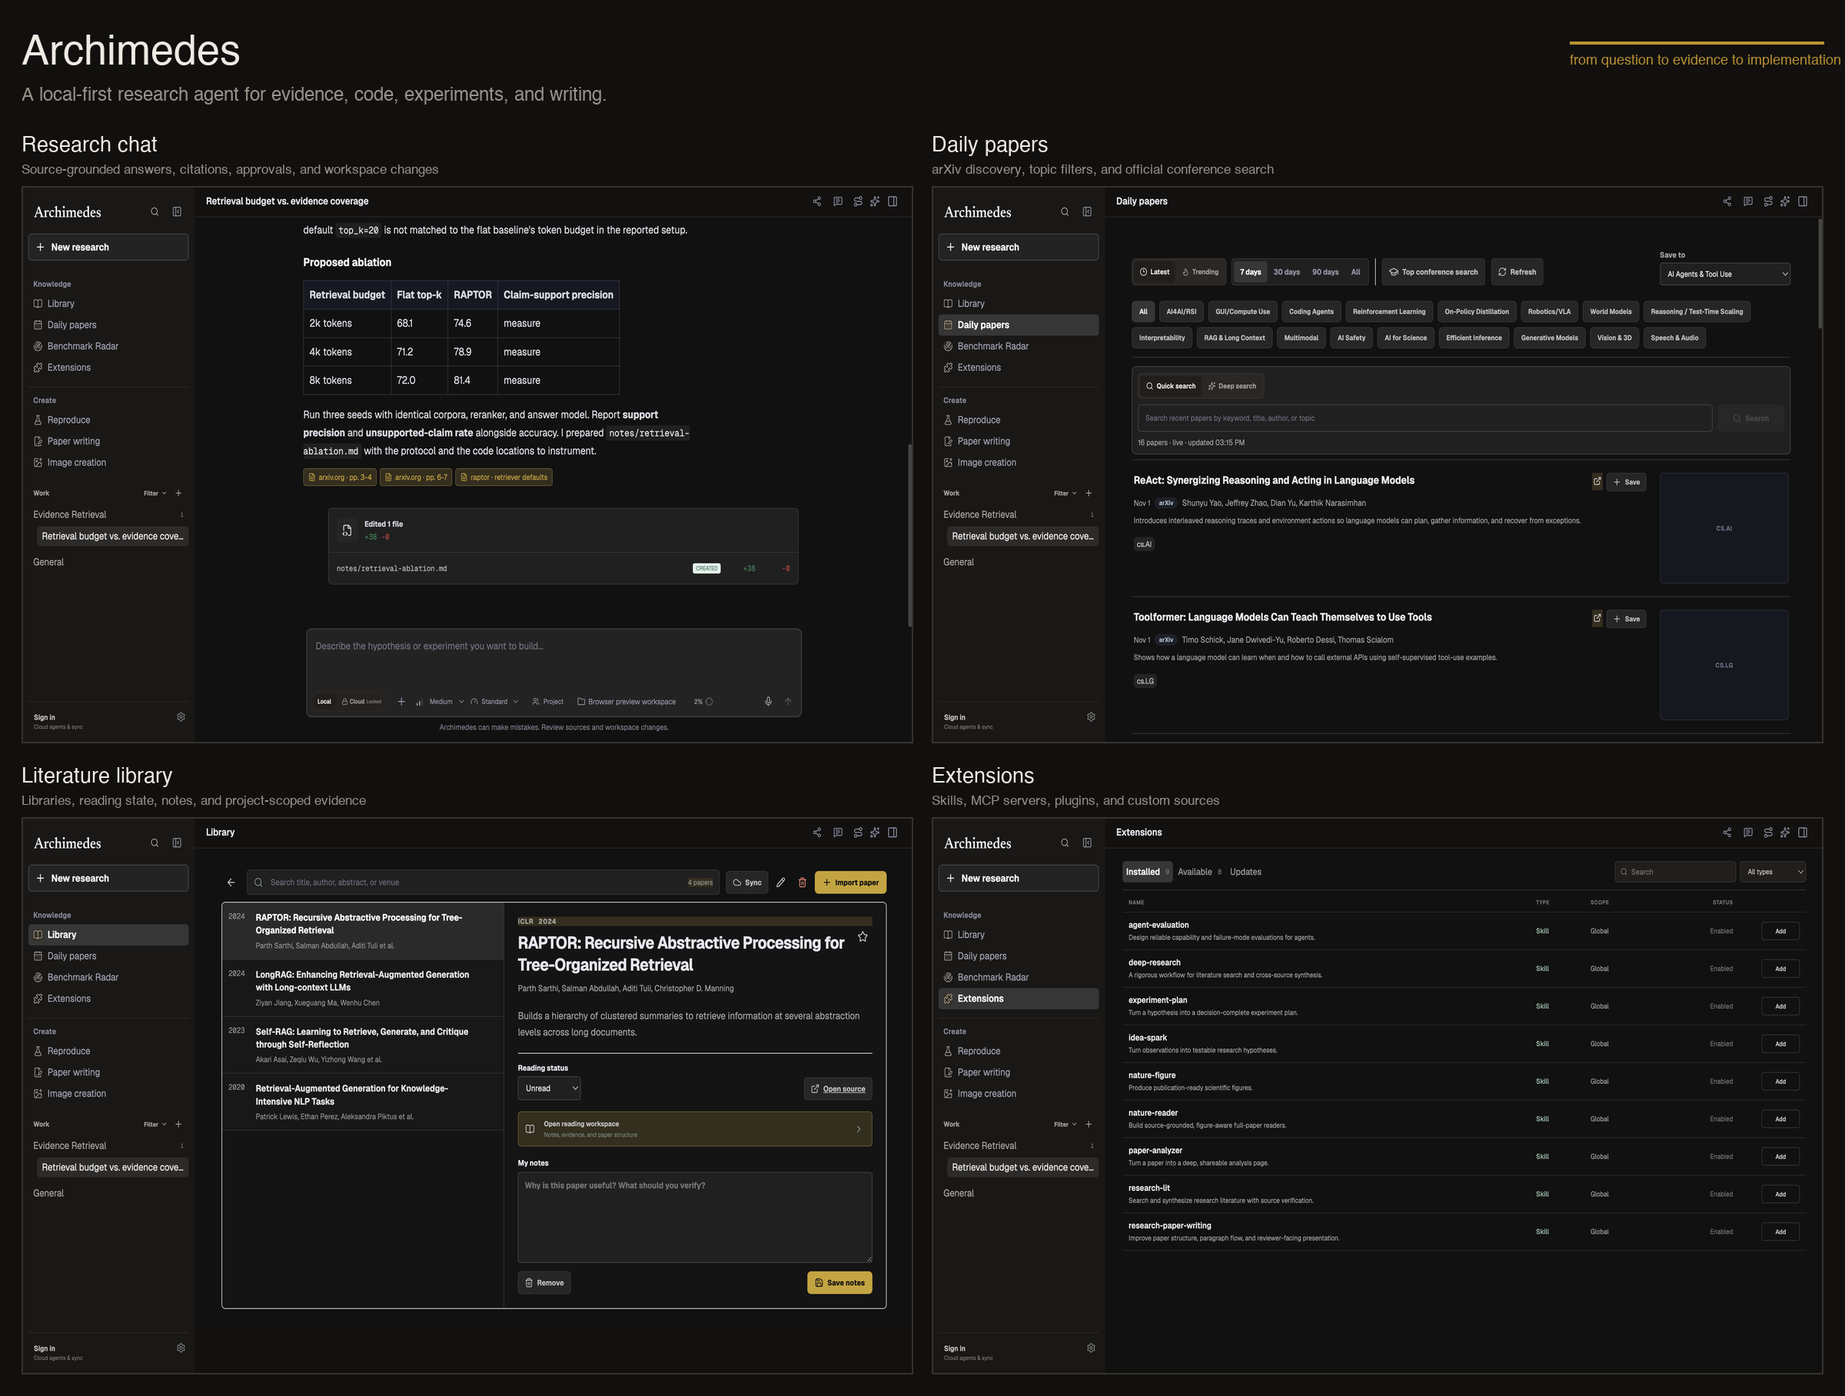
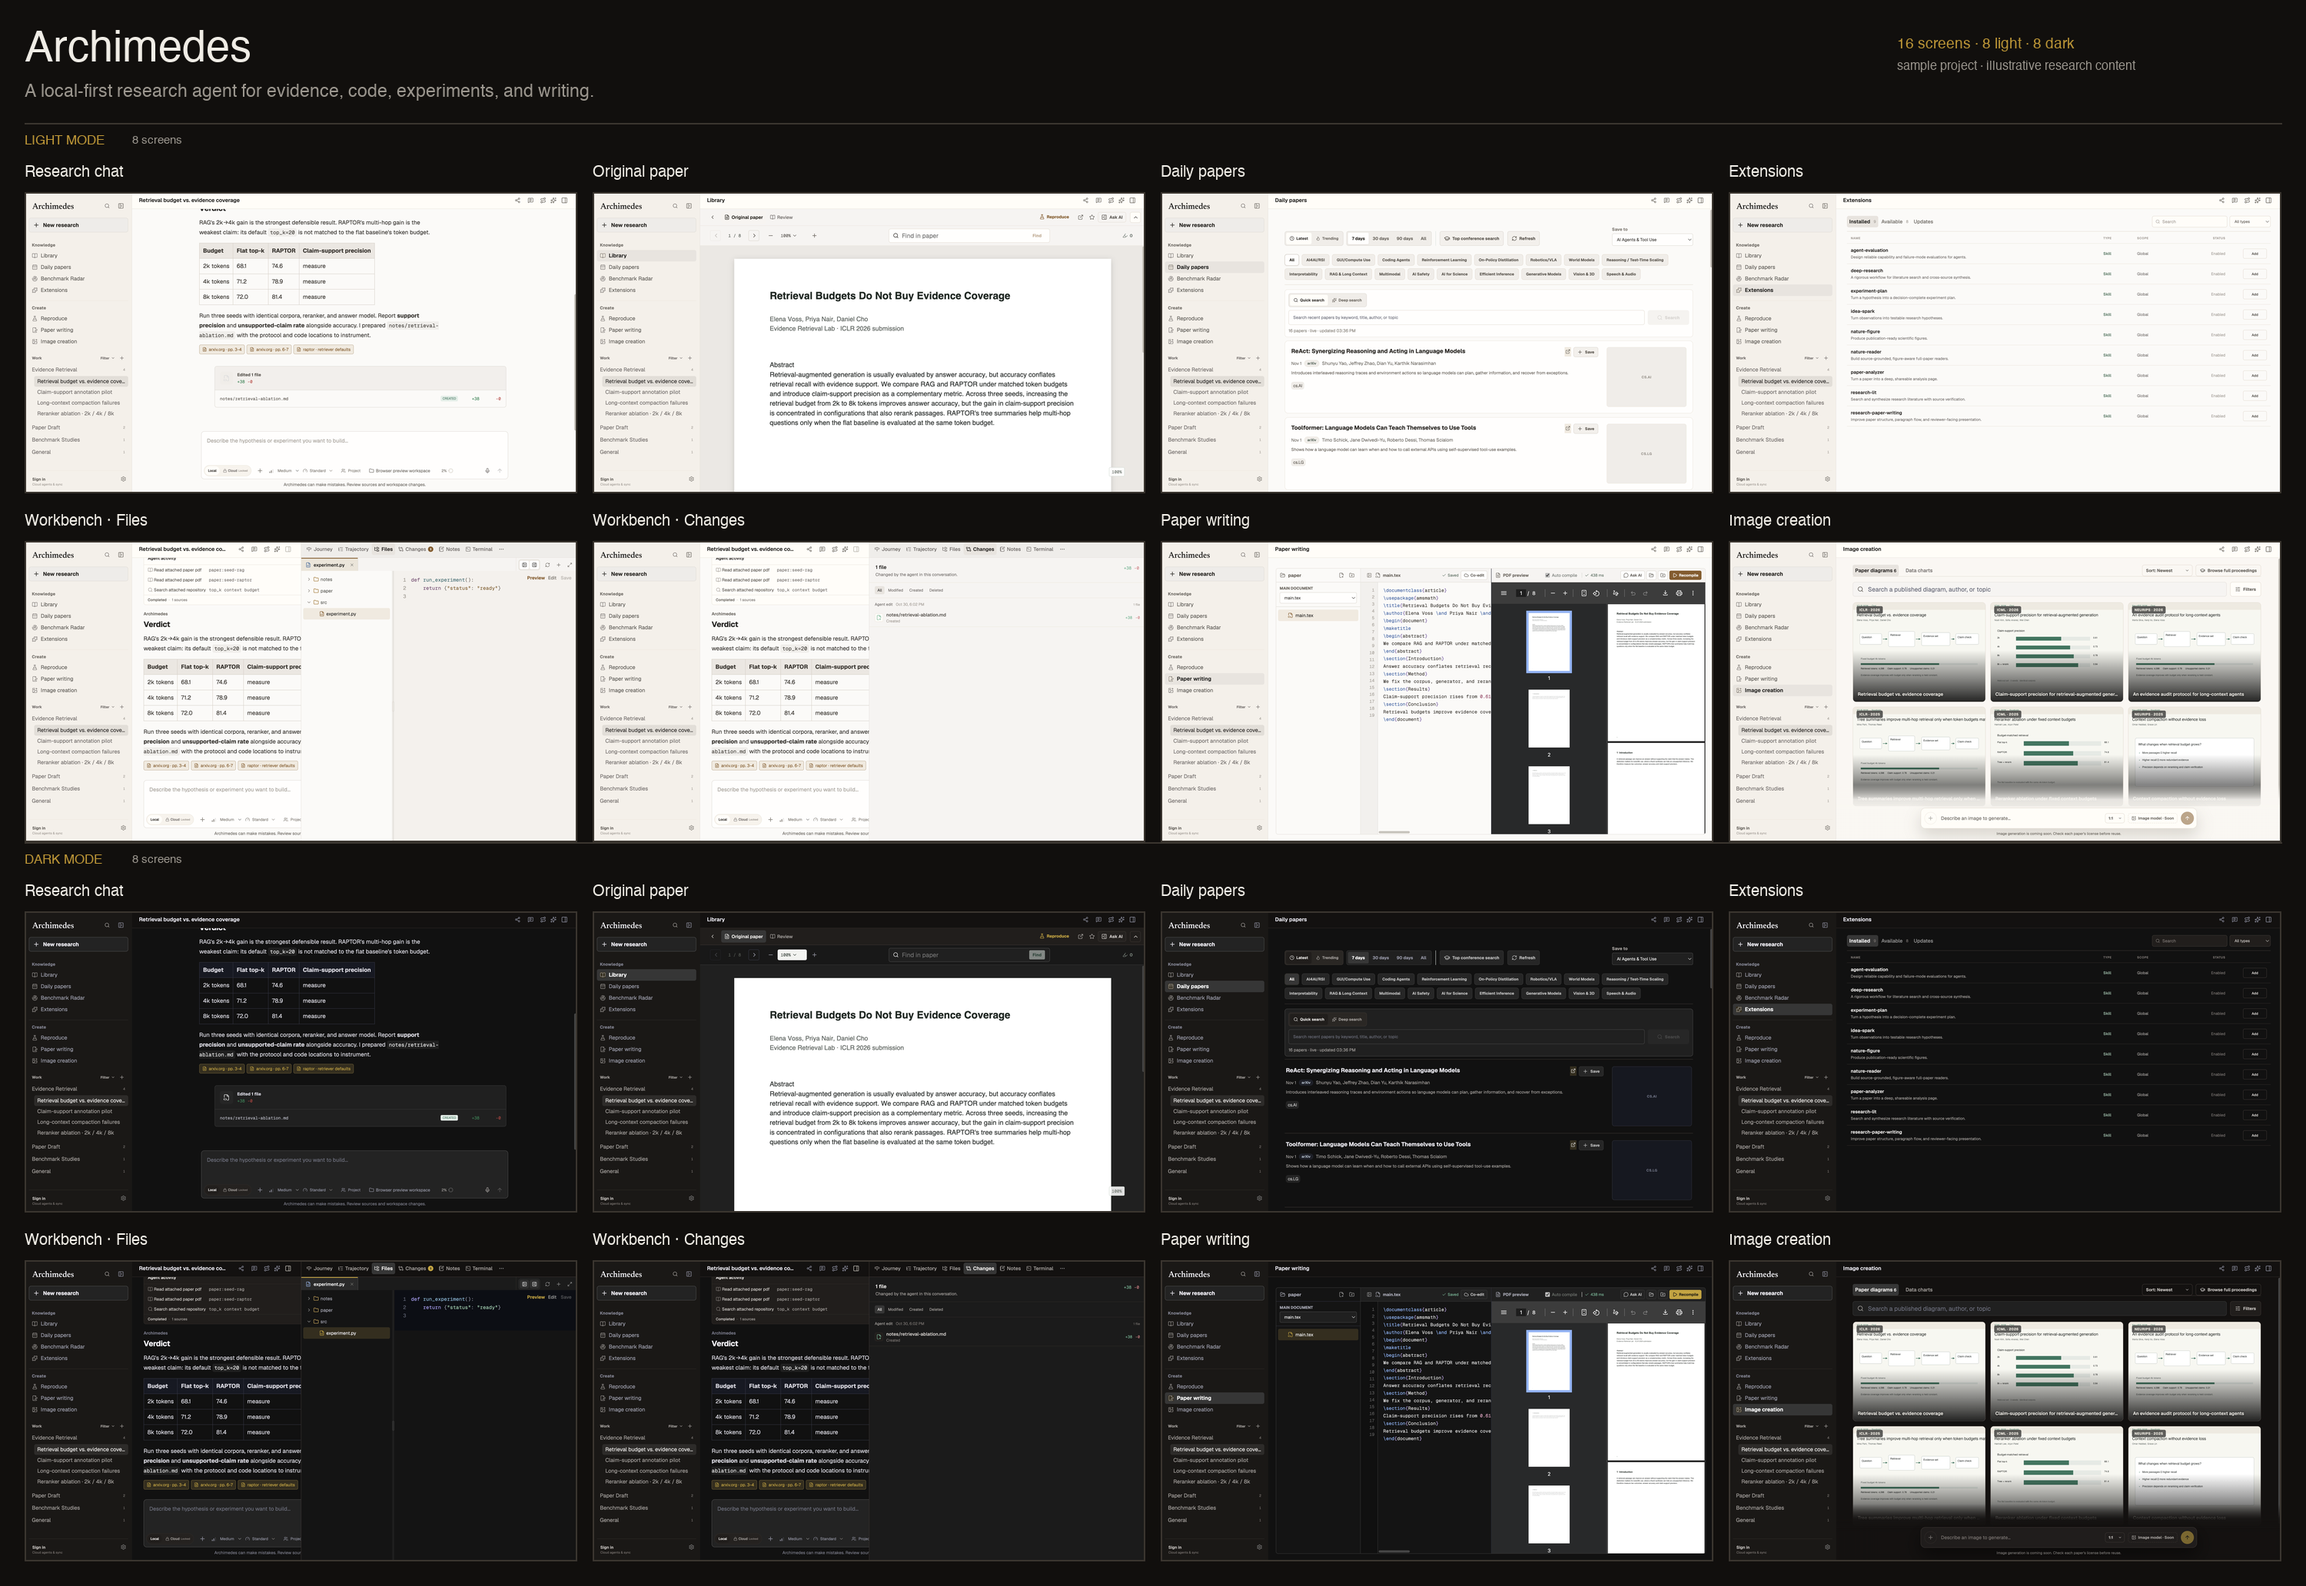
docs(readme): expand demo to light and dark screens
Replace the four-panel hero with sixteen screenshots: eight light-mode and eight dark-mode views covering research chat, original paper reader, Daily papers, Extensions, Workbench Files and Changes, paper writing, and image creation. Seed richer demo projects and threads for the screenshots.

diff --git a/README.md b/README.md
@@ -5,10 +5,10 @@
 > 面向研究全流程的科研智能体工作台：把找论文、读论文、看项目代码、组织证据、开展实验和写作放回同一个可追溯的桌面应用中。
 
 <p align="center">
-  <img src="docs/assets/readme/archimedes-hero.png" alt="Archimedes showing a source-grounded research chat with citations and workspace changes, daily paper discovery, a project literature library, and the Extensions marketplace">
+  <img src="docs/assets/readme/archimedes-hero.png" alt="Sixteen Archimedes screenshots in light and dark themes: research chat with citations and workspace changes, original paper reader, daily paper discovery, Extensions marketplace, Workbench Files and Changes, paper writing with PDF preview, and the image-creation gallery">
 </p>
 
-<p align="center"><em>Research chat with evidence and workspace changes · Daily paper discovery · Project literature library · Extensions marketplace. Sample project shown; research content is illustrative.</em></p>
+<p align="center"><em>Eight light-mode and eight dark-mode screens: research chat, original paper reader, Daily papers, Extensions, Workbench Files and Changes, paper writing, and image creation. Sample project shown; research content is illustrative.</em></p>
 
 Archimedes is not a generic chat shell with a paper list attached. Its center of gravity is the research loop: question → sources → evidence → implementation → experiment → writing. It runs as an Electron desktop application, keeps workspace data local by default, and leaves model and search providers configurable rather than locked to one vendor.
 
